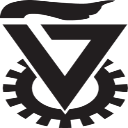
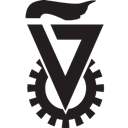
update pictures and add fix-course-material-button.js

diff --git a/src/fix-course-material-button.js b/src/fix-course-material-button.js
@@ -1,0 +1,16 @@
+selector = '#mainmenu > a.menuentry:nth-child(4) .menuentry.lang-he';
+badText = 'חומר המקצוע';
+goodText = 'חומר הקורס';
+
+function getButton() {
+    return document.querySelector(selector);
+}
+
+function fixButtonText() {
+    var button = getButton();
+    if (button) {
+        button.innerHTML = button.innerHTML.replace(badText, goodText);
+    }
+}
+
+fixButtonText();
